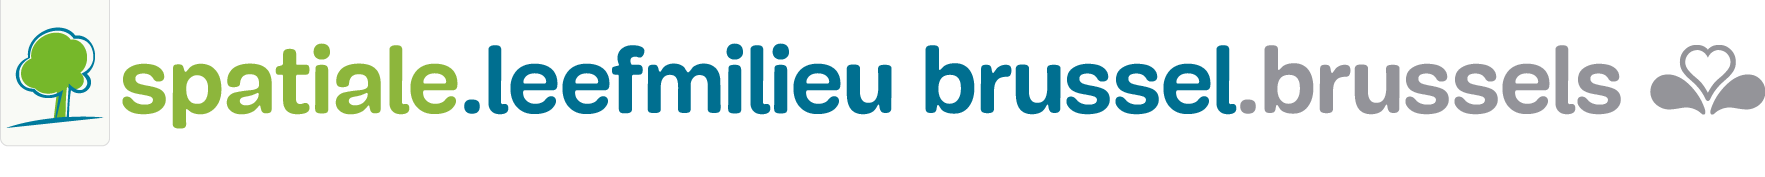
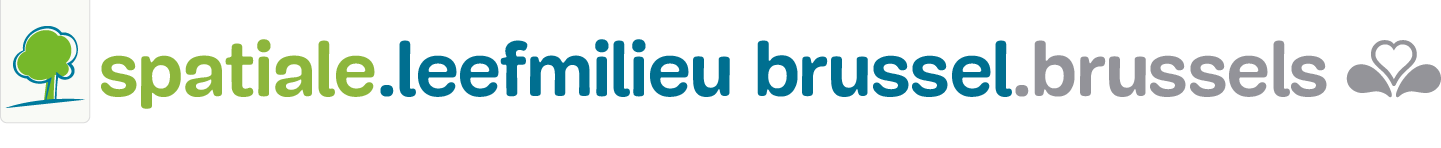
[metadata] work on headers

diff --git a/sdi/locale/message-db.ts b/sdi/locale/message-db.ts
@@ -142,6 +142,7 @@ export type MessageKey =
     | 'measure'
     | 'measureArea'
     | 'measureLength'
+    | 'metadata'
     | 'metaCommon'
     | 'metadataEditor'
     | 'metadataEditor'
@@ -187,6 +188,7 @@ export type MessageKey =
     | 'space'
     | 'start'
     | 'stop'
+    | 'studio'
     | 'style'
     | 'styleGroupAdd'
     | 'styleGroupDefaultName'
@@ -1062,7 +1064,7 @@ export const messages: MessageDB = {
     },
 
     metadataEditor: {
-        fr: 'Éditeur de métadonnées',
+        fr: 'Édition des métadonnées',
         nl: 'Metadatas editor',
     },
 
@@ -1200,5 +1202,15 @@ export const messages: MessageDB = {
     mapList: {
         fr: 'Liste des cartes',
         nl: 'kaartlijst',
+    },
+
+    studio: {
+        fr: 'Studio',
+        nl: 'Studio',
+    },
+
+    metadata: {
+        fr: 'Métadonnées',
+        nl: 'Metadata',
     },
 };

diff --git a/style/region-header.less b/style/region-header.less
@@ -3,6 +3,9 @@ body[lang="fr"] .be-name {background-image: url(imgs/be-header-iris-fr.png);}
 body[lang="nl"] .be-name {background-image: url(imgs/be-header-iris-nl.png);}
 
 
+body[lang="fr"] .header .be-name { width: 390px;}
+body[lang="nl"] .header .be-name { width: 342px;}
+
 .header {
     .flex(center, initial, initial);
     padding: 0 @margin;
@@ -25,11 +28,6 @@ body[lang="nl"] .be-name {background-image: url(imgs/be-header-iris-nl.png);}
             background-repeat: no-repeat;
             background-size: contain;
         }
-        // .be-tree {
-        //     width: 17px;
-        //     background-image: url(imgs/be-tree.png);
-        //     margin-right: 5px;
-        // }
         .be-name {
             width: 420px;
         }

diff --git a/compose/src/app.ts b/compose/src/app.ts
@@ -60,7 +60,7 @@ const renderAppListingButton =
     };
 
 
-const renderHeader = header(renderAppListingButton);
+const renderHeader = header('studio')(renderAppListingButton);
 
 const wrappedMain = (name: string, ...elements: React.DOMElement<{}, Element>[]) => (
     DIV({},

diff --git a/metadata/src/app.ts b/metadata/src/app.ts
@@ -54,7 +54,7 @@ const renderAppListingButton =
     };
 
 
-const renderHeader = header(renderAppListingButton);
+const renderHeader = header('metadata')(renderAppListingButton);
 
 
 const wrappedMain = (name: string, ...elements: React.DOMElement<{}, Element>[]) => (

diff --git a/metadata/src/components/list/index.ts b/metadata/src/components/list/index.ts
@@ -8,7 +8,7 @@ const render =
         return DIV({
             className: 'metadata-list',
         },
-            H1({}, tr('metadataEditor')),
+            H1({}, tr('sheetList')),
             metadata());
     };
 
